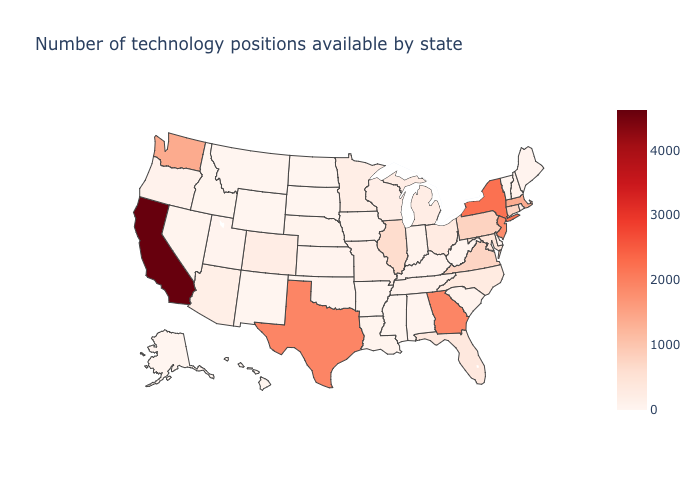
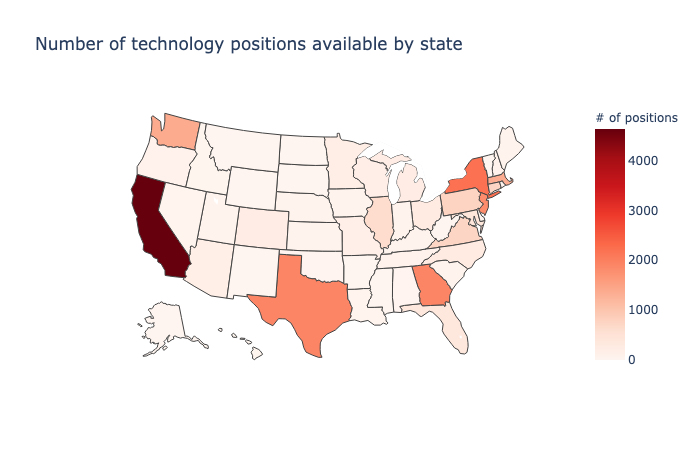
update job distribution plot

diff --git a/plot_functions.py b/plot_functions.py
@@ -27,7 +27,7 @@ def plot_job_dis_by_state(df):
         z = state_df['num_of_jobs'].astype(int), # Data to be color-coded
         locationmode = 'USA-states', # set of locations match entries in `locations`
         colorscale = 'Reds',
-        colorbar_title = "",
+        colorbar_title = "# of positions",
     ))
 
     fig.update_layout(
